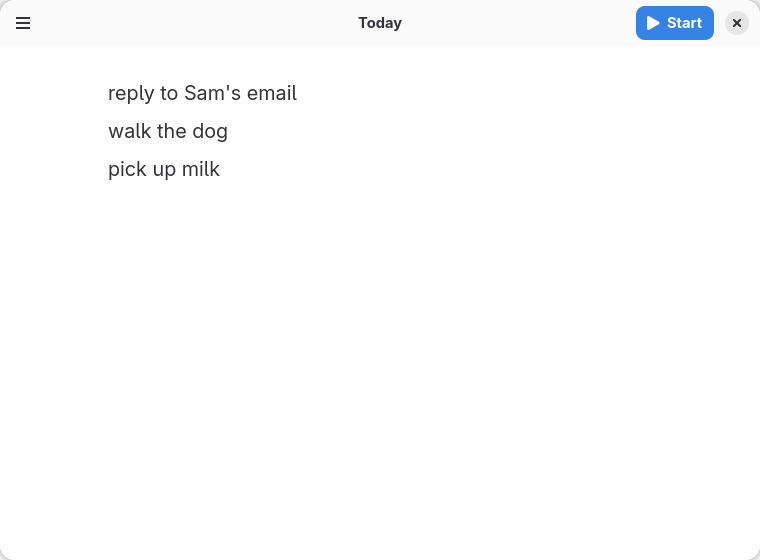
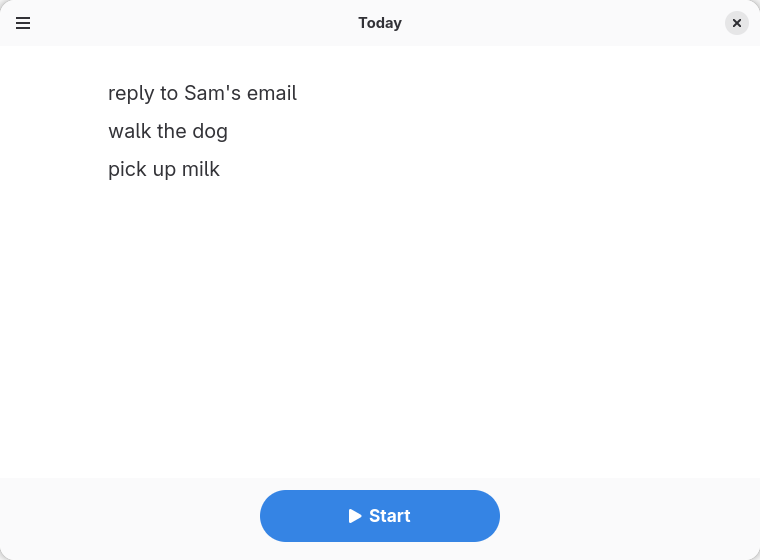
Give Start the weight of a primary action
It sat in the corner of the header bar, which put the whole point of the
planning page next to the window controls and lost it entirely once the window
grew. It was paired with Edit List on position, but the two do different jobs:
Edit List is secondary navigation, while Start is to the planning page what
Done is to the task page. It now gets the same treatment, at the foot of the
page, and the bar folds away while there is nothing to start.

Changed region(s): [[0.3329, 0.85, 0.6658, 0.9714], [0.8171, 0.0, 0.9382, 0.0911]]

diff --git a/src/style.css b/src/style.css
@@ -15,9 +15,9 @@
   font-size: 135%;
 }
 
-/* The one thing to press on the screen, so it carries a little more type and a
-   little more room than a default pill. */
-.task-done {
+/* The primary action of each screen: a little more type and room than a default
+   pill, so it reads as the thing to press. */
+.action {
   font-size: 118%;
   padding-top: 14px;
   padding-bottom: 14px;
